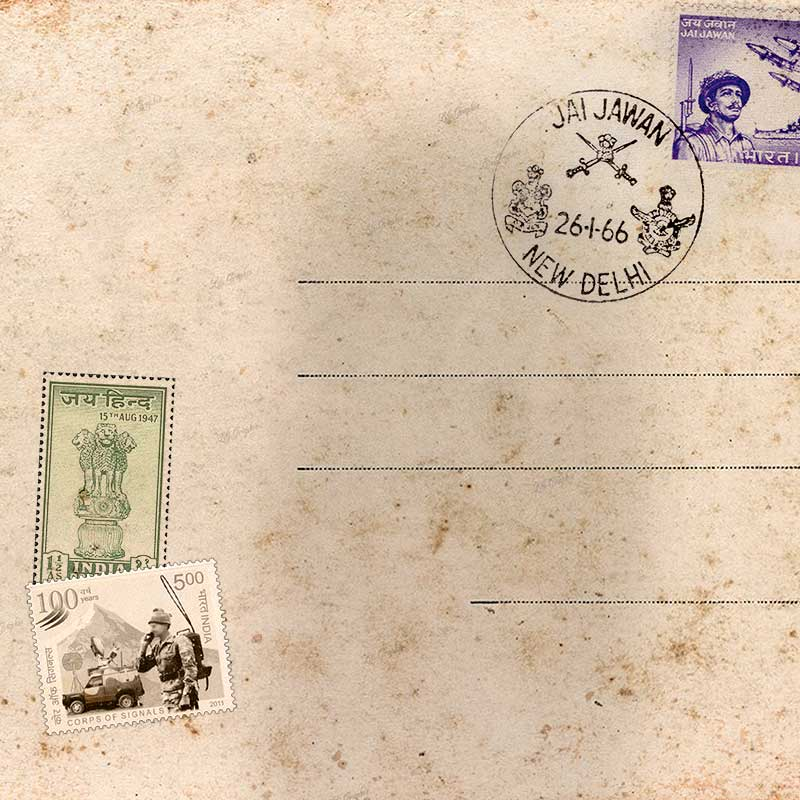
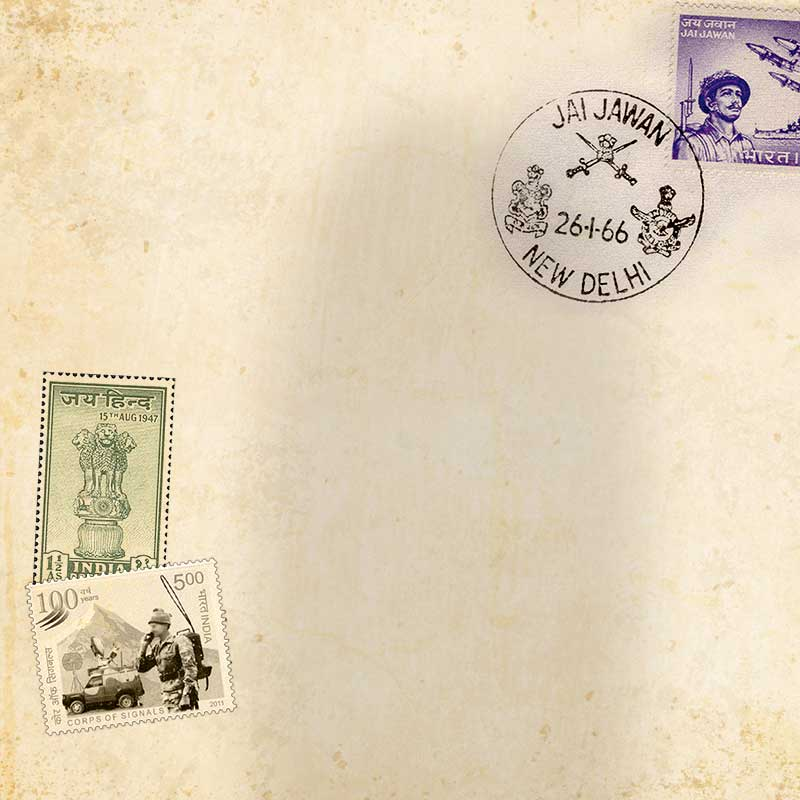
Letter to India: Changed main BG

diff --git a/dev/letter-to-india-2019/assets/css/theme.css b/dev/letter-to-india-2019/assets/css/theme.css
@@ -101,7 +101,7 @@ h6 {
     margin: 0 auto;
     position: relative;
     padding: 60px 0 0;
-    background-color: #ccc;
+    background-color: #ffefde;
     background-image: url(../images/sandesh-to-soldier-bg.jpg);
     background-repeat: no-repeat;
     background-position: center;
